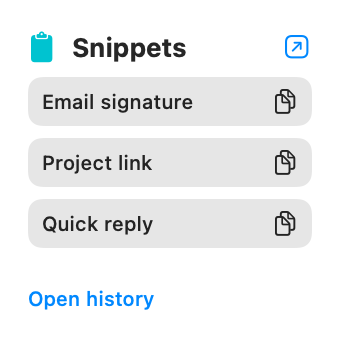
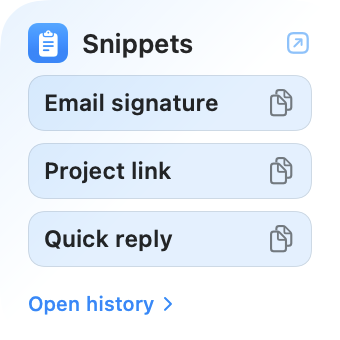
UI refresh phase 4: Desktop Favorites widget (#10)
- Header with an accent app tile, 13 pt collection name and a subtle
  link to the floating panel.
- Favorites are rounded accent-tinted tiles; clicking one swaps the copy
  icon for a green check and shows "Copied" with a symbol transition.
- Full-colour mode gets a soft accent wash; tinted/accented desktop
  modes drop decorative fills and mark the app tile and links as
  accentable.
- Preview renderer adds a dark medium variant showing the copied state.

diff --git a/macos/ClipShelfWidgets/ClipShelfWidgets.swift b/macos/ClipShelfWidgets/ClipShelfWidgets.swift
@@ -107,60 +107,104 @@ struct FavoritesWidgetView: View {
   var body: some View { FavoritesContentView(entry: entry, family: family) }
 }
 struct FavoritesContentView: View {
+  @Environment(\.widgetRenderingMode) private var renderingMode
   let entry: FavoritesEntry
   let family: WidgetFamily
   private let floatingURL = URL(string: "clipshelf://open?view=floating")!
+  /// Tinted / accented desktop modes recolour everything; drop decorative fills there.
+  private var fullColor: Bool { renderingMode == .fullColor }
   var body: some View {
     VStack(alignment: .leading, spacing: family == .systemSmall ? 6 : 8) {
-      HStack {
-        Image(systemName: "clipboard.fill").foregroundStyle(.teal)
-        Text(entry.collection?.name ?? "Favorites").font(.headline).lineLimit(1)
-        Spacer(minLength: 0)
-        FavoritesLink(destination: floatingURL) { Image(systemName: "arrow.up.forward.app") }
-          .accessibilityLabel("Open floating panel")
-      }
+      header
       if !entry.enabled {
-        Spacer(minLength: 0)
-        Text(entry.storageAvailable ? "Enable Desktop Favorites in ClipShelf Preferences." : "Open ClipShelf once to set up Favorites.").font(.caption).foregroundStyle(.secondary)
-        FavoritesLink("Open ClipShelf", destination: floatingURL).font(.caption.bold())
-        Spacer(minLength: 0)
+        message(entry.storageAvailable ? "Enable Desktop Favorites in ClipShelf Preferences." : "Open ClipShelf once to set up Favorites.")
       } else if let collection = entry.collection, !collection.items.isEmpty {
         let limit = entry.showPreviews ? (family == .systemSmall ? 2 : 4) : (family == .systemSmall ? 3 : 6)
         if family == .systemSmall {
           ForEach(Array(collection.items.prefix(limit))) { item in favoriteRow(item) }
         } else {
-          LazyVGrid(columns: [GridItem(.flexible()), GridItem(.flexible())], alignment: .leading, spacing: 8) {
+          LazyVGrid(columns: [GridItem(.flexible(), spacing: 6), GridItem(.flexible(), spacing: 6)], alignment: .leading, spacing: 6) {
             ForEach(Array(collection.items.prefix(limit))) { item in favoriteRow(item) }
           }
         }
         Spacer(minLength: 0)
-        FavoritesLink("Open history", destination: URL(string: "clipshelf://open?view=shelf")!)
-          .font(.caption2).foregroundStyle(.secondary)
+        FavoritesLink(destination: URL(string: "clipshelf://open?view=shelf")!) {
+          HStack(spacing: 3) {
+            Text("Open history")
+            Image(systemName: "chevron.right").imageScale(.small)
+          }
+        }
+        .font(.caption2.weight(.medium)).foregroundStyle(.secondary)
       } else {
-        Spacer(minLength: 0)
-        Text(entry.collection == nil ? "Choose a collection in Edit Widget." : (entry.collection?.total ?? 0) > 0 ? "Open ClipShelf to view text too large for this widget." : "Save text snippets or pin text to this collection.")
-          .font(.caption).foregroundStyle(.secondary)
-        FavoritesLink("Open ClipShelf", destination: floatingURL).font(.caption.bold())
-        Spacer(minLength: 0)
+        message(entry.collection == nil ? "Choose a collection in Edit Widget." : (entry.collection?.total ?? 0) > 0 ? "Open ClipShelf to view text too large for this widget." : "Save text snippets or pin text to this collection.")
       }
     }
-    .containerBackground(.background, for: .widget)
+    .containerBackground(for: .widget) {
+      if fullColor {
+        LinearGradient(colors: [Color.accentColor.opacity(0.10), Color.clear], startPoint: .topLeading, endPoint: .center)
+          .background(.background)
+      } else {
+        Color.clear
+      }
+    }
+  }
+  private var header: some View {
+    HStack(spacing: 7) {
+      Image(systemName: "list.clipboard.fill")
+        .font(.system(size: 11, weight: .semibold))
+        .foregroundStyle(.white)
+        .frame(width: 20, height: 20)
+        .background(Color.accentColor.gradient, in: RoundedRectangle(cornerRadius: 5, style: .continuous))
+        .widgetAccentable()
+      Text(entry.collection?.name ?? "Favorites").font(.system(size: 13, weight: .semibold)).lineLimit(1)
+      Spacer(minLength: 0)
+      FavoritesLink(destination: floatingURL) {
+        Image(systemName: "arrow.up.forward.app").font(.system(size: 12, weight: .medium)).foregroundStyle(.secondary)
+      }
+      .accessibilityLabel("Open floating panel")
+    }
+  }
+  private func message(_ text: String) -> some View {
+    VStack(alignment: .leading, spacing: 6) {
+      Spacer(minLength: 0)
+      Text(text).font(.caption).foregroundStyle(.secondary)
+      FavoritesLink("Open ClipShelf", destination: floatingURL).font(.caption.bold())
+        .foregroundStyle(Color.accentColor).widgetAccentable()
+      Spacer(minLength: 0)
+    }
   }
   private func favoriteRow(_ item: WidgetFavorite) -> some View {
-    Button(intent: CopyFavoriteIntent(id: item.id)) {
+    let copied = entry.copiedID == item.id
+    return Button(intent: CopyFavoriteIntent(id: item.id)) {
       HStack(spacing: 6) {
-        VStack(alignment: .leading, spacing: 2) {
-          Text(item.title).font(.caption.weight(.medium)).lineLimit(1)
-          if entry.showPreviews { Text(item.text).font(.caption2).foregroundStyle(.secondary).lineLimit(1) }
+        VStack(alignment: .leading, spacing: 1) {
+          Text(item.title).font(.system(size: 11.5, weight: .semibold)).lineLimit(1)
+          if copied {
+            Text("Copied").font(.caption2.weight(.medium)).foregroundStyle(.green).lineLimit(1)
+          } else if entry.showPreviews {
+            Text(item.text).font(.caption2).foregroundStyle(.secondary).lineLimit(1)
+          }
         }
         Spacer(minLength: 0)
-        Image(systemName: entry.copiedID == item.id ? "checkmark" : "doc.on.doc").font(.caption2)
+        Image(systemName: copied ? "checkmark.circle.fill" : "doc.on.doc")
+          .font(.system(size: 11, weight: .medium))
+          .foregroundStyle(copied ? AnyShapeStyle(.green) : AnyShapeStyle(.secondary))
+          .contentTransition(.symbolEffect(.replace))
       }
-      .padding(.horizontal, 7).padding(.vertical, 5).frame(maxWidth: .infinity, alignment: .leading)
-      .background(.quaternary, in: RoundedRectangle(cornerRadius: 7))
+      .padding(.horizontal, 8).padding(.vertical, entry.showPreviews ? 5 : 6)
+      .frame(maxWidth: .infinity, alignment: .leading)
+      .background {
+        RoundedRectangle(cornerRadius: 8, style: .continuous)
+          .fill(fullColor ? AnyShapeStyle((copied ? Color.green : Color.accentColor).opacity(0.12)) : AnyShapeStyle(.quaternary))
+      }
+      .overlay {
+        RoundedRectangle(cornerRadius: 8, style: .continuous)
+          .strokeBorder(.quaternary, lineWidth: fullColor ? 0.5 : 0)
+      }
+      .animation(.easeOut(duration: 0.2), value: copied)
     }
     .buttonStyle(.plain)
-    .accessibilityLabel("Copy \(item.title)")
+    .accessibilityLabel(copied ? "Copied \(item.title)" : "Copy \(item.title)")
   }
 }
 #if !CLIPSHELF_WIDGET_PREVIEW

diff --git a/tool/render_widget_preview.swift b/tool/render_widget_preview.swift
@@ -17,10 +17,23 @@ struct WidgetPreviewRenderer {
       WidgetFavorite(id: "six", title: "Favorite quote", text: "Make room for good ideas.")
     ]
     let collection = WidgetCollection(id: "snippets", name: "Snippets", items: samples, total: 6)
-    for (name, family, width, previews) in [("small", WidgetFamily.systemSmall, 170.0, false), ("medium", .systemMedium, 360.0, false), ("small-text", .systemSmall, 170.0, true), ("medium-text", .systemMedium, 360.0, true)] {
-      let entry = FavoritesEntry(date: Date(), collection: collection, enabled: true, showPreviews: previews, copiedID: nil)
+    let variants: [(String, WidgetFamily, Double, Bool, ColorScheme, String?)] = [
+      ("small", .systemSmall, 170, false, .light, nil),
+      ("medium", .systemMedium, 360, false, .light, nil),
+      ("small-text", .systemSmall, 170, true, .light, nil),
+      ("medium-text", .systemMedium, 360, true, .light, nil),
+      // Dark appearance, with the second favorite in its "Copied" state.
+      ("medium-dark", .systemMedium, 360, true, .dark, "two"),
+    ]
+    for (name, family, width, previews, scheme, copied) in variants {
+      let entry = FavoritesEntry(date: Date(), collection: collection, enabled: true, showPreviews: previews, copiedID: copied)
+      let background = scheme == .dark ? Color(red: 0.12, green: 0.12, blue: 0.13) : Color.white
       let content = FavoritesContentView(entry: entry, family: family)
-        .padding(14).frame(width: width, height: 170).background(Color.white).environment(\.colorScheme, .light)
+        .padding(14).frame(width: width, height: 170)
+        .background(LinearGradient(colors: [Color.accentColor.opacity(0.10), .clear], startPoint: .topLeading, endPoint: .center))
+        .background(background)
+        .clipShape(RoundedRectangle(cornerRadius: 22, style: .continuous))
+        .environment(\.colorScheme, scheme)
       let renderer = ImageRenderer(content: content); renderer.scale = 2
       guard let image = renderer.cgImage, let data = NSBitmapImageRep(cgImage: image).representation(using: .png, properties: [:]) else { fatalError("Could not render widget preview") }
       try data.write(to: URL(fileURLWithPath: "widget-\(name)-preview.png"))
